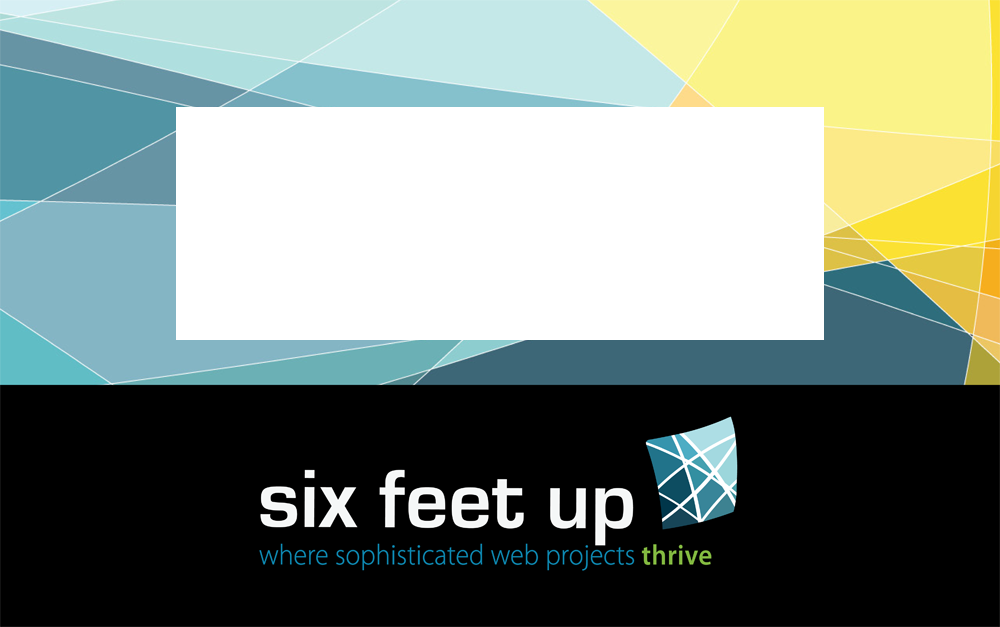
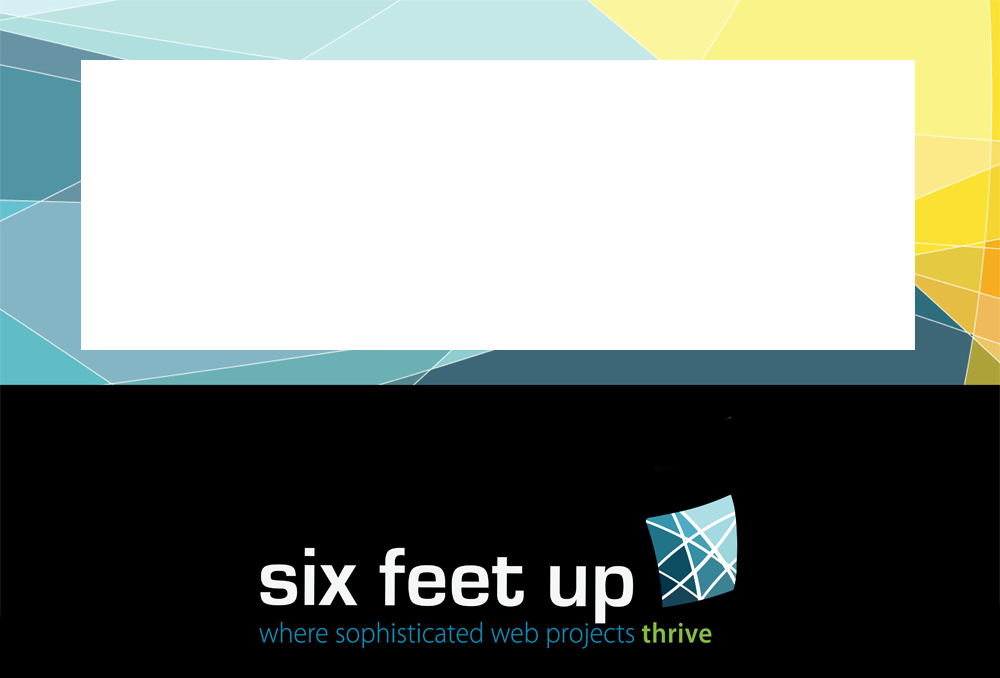
styling updates for the landslide theme * darkened presenter notes text color * fixed monospace font display * increased text on title slide, adjusted image to better match Keynote theme * hide next/previous slides * updated path to images in CSS to display when the correct command is used * fixed d
git-svn-id: https://svn.sixfeetup.com/svn/private/sixfeetup/resources/presentation_themes/sixfeetup_landslide@36872 7abc7aa1-7e52-db11-9331-00508bd72530

Changed region(s): [[0.0, 0.0, 1.0, 0.6364], [0.248, 0.6667, 0.744, 0.9697]]

diff --git a/css/screen.css b/css/screen.css
@@ -51,7 +51,7 @@ div.slide {
   -webkit-transition: margin 0.25s ease-in-out;
   -moz-transition: margin 0.25s ease-in-out;
   -o-transition: margin 0.25s ease-in-out;
-  background: #000000 url('../logo.png') no-repeat top right;
+  background: #000000 url('theme/logo.png') no-repeat top right;
 }
 
 /* Expose */
@@ -230,7 +230,7 @@ div.slide p {
 .slide.past {
   display: block;
   margin-left: -1400px;
-  opacity: 0.3;
+  opacity: 0;
 }
 
 .slide.current {
@@ -241,7 +241,7 @@ div.slide p {
 .slide.future {
   display: block;
   margin-left: 500px;
-  opacity: 0.3;
+  opacity: 0;
 }
 
 .slide.far-future {
@@ -261,7 +261,7 @@ body.three-d div.slides {
 header:not(:only-child) {
   font-family: Verdana, sans-serif;
   font-weight: normal;
-  font-size: 50px;
+  font-size: 65px;
   letter-spacing: -.05em;
   color: #ffffff;
   text-shadow: rgba(0, 0, 0, 0.2) 0 2px 5px;
@@ -325,7 +325,12 @@ a {
 
 pre {
   font-size: 16px;
-  font-family: Monaco, Courier, monospace;
+  font-family: Courier, monospace;
+}
+code {
+  color: #bfa6a6;
+  font-size: 20px;
+  font-family: Courier, monospace;
 }
 
 li {
@@ -432,10 +437,11 @@ aside {
     text-indent: 10px;
   }
 
-.notes {
+p.notes {
   display: none;
   padding: 10px;
   background: #ccc;
+  color: #111;
   border-radius: 10px;
   -moz-border-radius: 10px;
   -webkit-border-radius: 10px;
@@ -506,10 +512,26 @@ pre .vg { color: #93a1a1 } /* Name.Variable.Global */
 pre .vi { color: #93a1a1 } /* Name.Variable.Instance */
 pre .il { color: #6c71c4 } /* Literal.Number.Integer.Long */
 
-pre .lineno {
+pre .lineno,
+.linenodiv pre {
     background-color: #073642;
     padding: 0 4px 0 15px;
     display: inline-block;
+}
+td.linenos,
+.linenodiv pre {
+    width: 22px;
+    text-align: right;
+}
+td.code pre {
+    padding: 0 5px;
+}
+.highlighttable {
+    border-collapse: collapse;
+    width: 800px;
+}
+.highlighttable td {
+    padding: 0;
 }
 
 #blank {
@@ -526,23 +548,26 @@ pre .lineno {
 /* title slide */
 .slide-wrapper:first-child .slide {
     text-align: center;
-    background: #000000 url('../title-slide.png') no-repeat top center;
+    background: #000000 url('theme/title-slide.png') no-repeat top center;
 }
 .slide-wrapper:first-child header:not(:only-child) {
     position: static;
-    padding-top: 150px;
+    padding-top: 85px;
     color: #000000;
-    width: 630px;
+    width: 770px;
     margin: 0 auto;
 }
 .slide-wrapper:first-child section {
     margin-top: 10px;
     color: #000000;
 }
-
 .slide-wrapper:first-child .slide header:only-child h1 {
     display: block;
     width: auto;
     color: #000000;
     padding-top: 50px;
+}
+.slide-wrapper:first-child h2 {
+    font-size: 25px;
+    font-weight: normal;
 }
